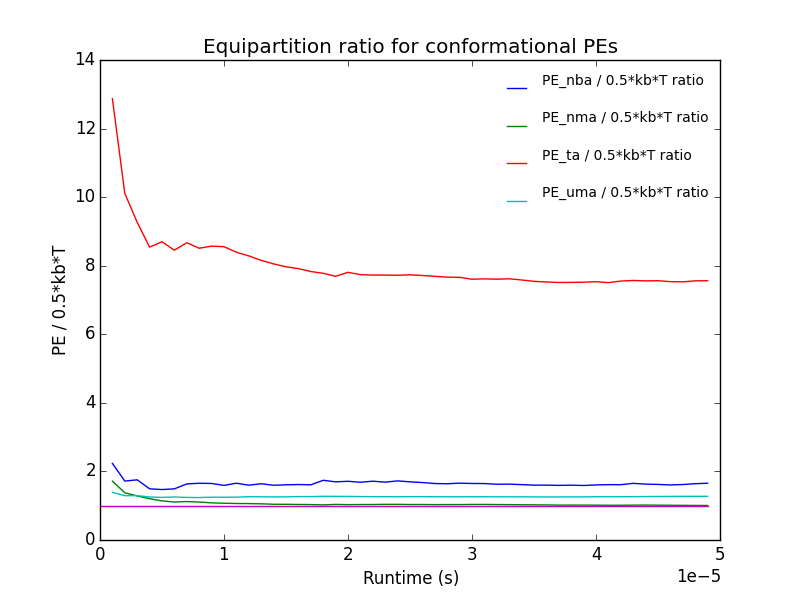
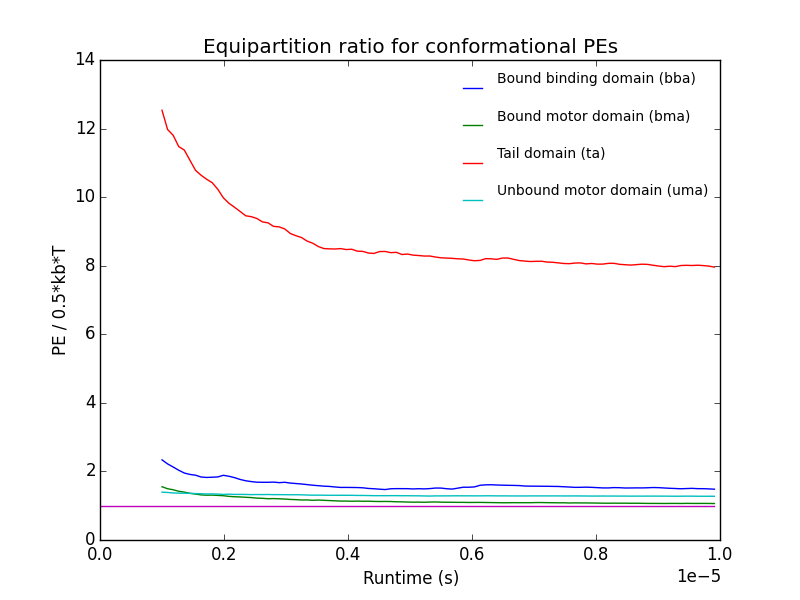
Fix several bugs in correlation function plotting, the plot is looking decent now.

diff --git a/simulations/simulations.cpp b/simulations/simulations.cpp
@@ -10,32 +10,31 @@
 
 void store_onebound_PEs_callback(void* dyn, State s, void* job_msg, data_union *job_data, int iteration) {
   assert(s == NEARBOUND);
-  assert(iteration <= job_data->ob_data.len);
+  assert(iteration < job_data->ob_data.len);
+  int max_iteration = *((int*) job_msg);
   
   Dynein_onebound* dyn_ob = (Dynein_onebound*) dyn;
-
   job_data->ob_data.bb[iteration] = dyn_ob->PE_bba;
-  job_data->ob_data.bb[iteration] = dyn_ob->PE_bma;
-  job_data->ob_data.bb[iteration] = dyn_ob->PE_ta; 
-  job_data->ob_data.bb[iteration] = dyn_ob->PE_uma;
-
-  int max_iteration = *((int*) job_msg);
+  job_data->ob_data.bm[iteration] = dyn_ob->PE_bma;
+  job_data->ob_data.t[iteration] = dyn_ob->PE_ta;
+  job_data->ob_data.um[iteration] = dyn_ob->PE_uma;
 
   if (iteration % 100000 == 0) {
     printf("PE calculation progress: %d / %d, %g%%                \r", iteration, max_iteration, ((double) iteration) / max_iteration * 100);
     fflush(NULL);
   }
-  if (iteration == max_iteration) printf("\n");
+  if (iteration == job_data->ob_data.len - 1) printf("Finished generating PE data for seed %f                \n", RAND_INIT_SEED);
 }
 
 void print_data_to_file(double* data1, double* data2, int iterations, const char* legend, const char* fname) {
   char* buf = (char*)
-    malloc((iterations * (12+5+12+1) + 1 + 1) * sizeof(char) + strlen(legend)); // 5 spaced, each double 12 chars, newline
+    malloc((iterations * (12+5+12+1) + 1 + 1) * sizeof(char) + strlen(legend)); // 5 spaced, each double 12 chars, newline, legend
   int buf_offset = 0;
   sprintf(buf, "%s\n", legend);
   buf_offset += strlen(legend) + 1;
 
   for (int i = 0; i < iterations; i++) {
+    assert(data2[i] == data2[i]);
     sprintf(&buf[buf_offset], "%+.5e     %+.5e\n", data1[i], data2[i]);
     buf_offset += 30;
   }
@@ -45,61 +44,63 @@ void print_data_to_file(double* data1, double* data2, int iterations, const char
   fclose(data_file);
 }
 
-void get_onebound_PE_correlation_function(generic_data* tau_data, onebound_data* corr_data, int num_corr_datapoints, int min_tau_iter, int max_tau_iter) {
+void get_onebound_PE_correlation_function(generic_data* tau_data, onebound_data* corr_data, int num_corr_datapoints, int iterations, int max_tau_iter) {
   MICROTUBULE_BINDING_DISTANCE = -std::numeric_limits<double>::infinity();
 
   onebound_equilibrium_angles eq = onebound_post_powerstroke_internal_angles;
   double test_position[] = {eq.bba, eq.bma, eq.ta, eq.uma, 0, 0};
 
   onebound_data data;
-  data.bb = (double*) malloc(num_corr_datapoints * sizeof(double));
-  data.bm = (double*) malloc(num_corr_datapoints * sizeof(double));
-  data.t  = (double*) malloc(num_corr_datapoints * sizeof(double));
-  data.um = (double*) malloc(num_corr_datapoints * sizeof(double));
-  data.len = max_tau_iter;
+  data.bb = (double*) malloc(iterations * sizeof(double));
+  data.bm = (double*) malloc(iterations * sizeof(double));
+  data.t  = (double*) malloc(iterations * sizeof(double));
+  data.um = (double*) malloc(iterations * sizeof(double));
+  data.len = iterations;
 
   data_union data_holder;
   data_holder.ob_data = data;
 
-  simulate(max_tau_iter*dt, RAND_INIT_SEED, NEARBOUND, test_position, store_onebound_PEs_callback, (void*) (void*) &max_tau_iter, &data_holder);
+  simulate(iterations*dt, RAND_INIT_SEED, NEARBOUND, test_position, store_onebound_PEs_callback, (void*) &iterations, &data_holder);
 
   double* PE_bbas = data.bb;
   double* PE_bmas = data.bm;
   double* PE_tas =  data.t;
   double* PE_umas = data.um;
 
-  double PE_bba_ave = get_average(PE_bbas, num_corr_datapoints);
-  double PE_bba_var = get_variance(PE_bbas, num_corr_datapoints);
-  double PE_bma_ave = get_average(PE_bmas, num_corr_datapoints);
-  double PE_bma_var = get_variance(PE_bmas, num_corr_datapoints);
-  double PE_ta_ave = get_average(PE_tas, num_corr_datapoints);
-  double PE_ta_var = get_variance(PE_tas, num_corr_datapoints);
-  double PE_uma_ave = get_average(PE_umas, num_corr_datapoints);
-  double PE_uma_var = get_variance(PE_umas, num_corr_datapoints);
+  double PE_bba_ave = get_average(PE_bbas, iterations);
+  double PE_bba_var = get_variance(PE_bbas, iterations);
+  double PE_bma_ave = get_average(PE_bmas, iterations);
+  double PE_bma_var = get_variance(PE_bmas, iterations);
+  double PE_ta_ave = get_average(PE_tas, iterations);
+  double PE_ta_var = get_variance(PE_tas, iterations);
+  double PE_uma_ave = get_average(PE_umas, iterations);
+  double PE_uma_var = get_variance(PE_umas, iterations);
 
-  double d_tau_iter = (max_tau_iter - min_tau_iter) / num_corr_datapoints;
+  int d_tau_iter = max_tau_iter / num_corr_datapoints;
+  assert(d_tau_iter > 0);
 
-  for (int tau_iter = min_tau_iter; tau_iter < max_tau_iter; tau_iter += d_tau_iter) {
+  for (int tau_iter = 0; tau_iter < max_tau_iter; tau_iter += d_tau_iter) {
     double bba_correlation_sum = 0;
     double bma_correlation_sum = 0;
     double ta_correlation_sum = 0;
     double uma_correlation_sum = 0;
     
-    for (int i = 0; i < max_tau_iter - tau_iter; i++) {
+    for (int i = 0; i < iterations - tau_iter; i++) {
       bba_correlation_sum += (PE_bbas[i] - PE_bba_ave) * (PE_bbas[i+tau_iter] - PE_bba_ave);
       bma_correlation_sum += (PE_bmas[i] - PE_bma_ave) * (PE_bmas[i+tau_iter] - PE_bma_ave);
       ta_correlation_sum += (PE_tas[i] - PE_ta_ave) * (PE_tas[i+tau_iter] - PE_ta_ave);
       uma_correlation_sum += (PE_umas[i] - PE_uma_ave) * (PE_umas[i+tau_iter] - PE_uma_ave);
     }
 
-    double bba_correlation = bba_correlation_sum / PE_bba_var / num_corr_datapoints;
-    double bma_correlation = bma_correlation_sum / PE_bma_var / num_corr_datapoints;
-    double ta_correlation  = ta_correlation_sum / PE_ta_var / num_corr_datapoints;
-    double uma_correlation = uma_correlation_sum / PE_uma_var / num_corr_datapoints;
+    int num_iters = iterations - tau_iter;
 
-    int iteration = (tau_iter - min_tau_iter) / d_tau_iter;
+    double bba_correlation = bba_correlation_sum / PE_bba_var / num_iters;
+    double bma_correlation = bma_correlation_sum / PE_bma_var / num_iters;
+    double ta_correlation  = ta_correlation_sum / PE_ta_var / num_iters;
+    double uma_correlation = uma_correlation_sum / PE_uma_var / num_iters;
 
-    assert(iteration <= corr_data->len);
+    int iteration = tau_iter / d_tau_iter;
+    assert(iteration < corr_data->len);
 
     tau_data->data[iteration] = tau_iter*dt;
     corr_data->bb[iteration] = bba_correlation;
@@ -111,6 +112,7 @@ void get_onebound_PE_correlation_function(generic_data* tau_data, onebound_data*
       printf("correlation function progress: %g%%                \r", ((double) iteration)  / num_corr_datapoints * 100);
       fflush(NULL);
     }
+    if (iteration == corr_data->len - 1) printf("Finished correlation calculations for seed %f               \n", RAND_INIT_SEED);
   }
 }
 
@@ -121,11 +123,11 @@ void get_onebound_equipartition_ratio_per_runtime(generic_data* runtime_data, on
   double init_position[] = {eq.bba, eq.bma, eq.ta, eq.uma, 0, 0};
 
   onebound_data data;
-  data.bb = (double*) malloc(num_eq_datapoints * sizeof(double));
-  data.bm = (double*) malloc(num_eq_datapoints * sizeof(double));
-  data.t  = (double*) malloc(num_eq_datapoints * sizeof(double));
-  data.um = (double*) malloc(num_eq_datapoints * sizeof(double));
-  data.len = num_eq_datapoints;
+  data.bb = (double*) malloc(max_runtime_iter * sizeof(double));
+  data.bm = (double*) malloc(max_runtime_iter * sizeof(double));
+  data.t  = (double*) malloc(max_runtime_iter * sizeof(double));
+  data.um = (double*) malloc(max_runtime_iter * sizeof(double));
+  data.len = max_runtime_iter;
 
   data_union data_holder;
   data_holder.ob_data = data;
@@ -146,7 +148,7 @@ void get_onebound_equipartition_ratio_per_runtime(generic_data* runtime_data, on
     double uma_eq_ratio = get_average(uma_PE_data, runtime_iter) / (0.5*kb*T);
 
     int iteration = (runtime_iter - min_runtime_iter) / d_runtime_iter;
-    assert(iteration <= eq_data->len);
+    assert(iteration < eq_data->len);
 
     eq_data->bb[iteration] = bba_eq_ratio;
     eq_data->bm[iteration] = bma_eq_ratio;
@@ -158,5 +160,6 @@ void get_onebound_equipartition_ratio_per_runtime(generic_data* runtime_data, on
       printf("equipartition ratio progress: %g%%                \r", ((double) iteration) / num_eq_datapoints * 100);
       fflush(NULL);
     }
+    if (iteration == eq_data->len - 1) printf("Finished equipartition average calculations for seed %f             \n", RAND_INIT_SEED);
   }
 }

diff --git a/simulations/onebound_PE_equipartition_correlation.cpp b/simulations/onebound_PE_equipartition_correlation.cpp
@@ -10,14 +10,13 @@ int main() {
   }
 
   T = 100;
-  int iterations = 1e6;
+  int iterations = 1e8;
 
-  int min_tau_iter = iterations * 0.1;
-  int max_tau_iter = iterations * 0.5;
+  int max_tau_iter = iterations * 0.4;
   int num_corr_datapoints = 50;
 
-  int min_runtime_iter = 10*min_tau_iter;
-  int max_runtime_iter = 10*max_tau_iter;
+  int min_eq_iter = iterations;
+  int max_eq_iter = 10*iterations;
   int num_eq_datapoints = 100;
 
   const char* bba_corr_title = "Bound binding domain (bba)";
@@ -40,31 +39,37 @@ int main() {
   const char* ta_eq_fname =  "ta_pe_equipartition_ratio.txt";
   const char* uma_eq_fname = "uma_pe_equipartition_ratio.txt";
 
-  generic_data tau_data, runtime_data;
+  generic_data corr_time_data, eq_time_data;
   onebound_data corr_data, eq_data, eq_ratio_ave, corr_ave;
 
-  tau_data.data = (double*) malloc(num_corr_datapoints * sizeof(double));
-  runtime_data.data = (double*) malloc(num_eq_datapoints * sizeof(double));
+  corr_time_data.data = (double*) malloc(num_corr_datapoints * sizeof(double));
+  eq_time_data.data = (double*) malloc(num_eq_datapoints * sizeof(double));
+  corr_time_data.len = num_corr_datapoints;
+  eq_time_data.len = num_eq_datapoints;
   
   corr_data.bb = (double*) malloc(num_corr_datapoints * sizeof(double));
   corr_data.bm = (double*) malloc(num_corr_datapoints * sizeof(double));
   corr_data.t  = (double*) malloc(num_corr_datapoints * sizeof(double));
   corr_data.um = (double*) malloc(num_corr_datapoints * sizeof(double));
+  corr_data.len = num_corr_datapoints;
   
   eq_data.bb = (double*) malloc(num_eq_datapoints * sizeof(double));
   eq_data.bm = (double*) malloc(num_eq_datapoints * sizeof(double));
   eq_data.t  = (double*) malloc(num_eq_datapoints * sizeof(double));
   eq_data.um = (double*) malloc(num_eq_datapoints * sizeof(double));
-
-  eq_ratio_ave.bb = (double*) malloc(num_eq_datapoints * sizeof(double));
-  eq_ratio_ave.bm = (double*) malloc(num_eq_datapoints * sizeof(double));
-  eq_ratio_ave.t  = (double*) malloc(num_eq_datapoints * sizeof(double));
-  eq_ratio_ave.um = (double*) malloc(num_eq_datapoints * sizeof(double));
+  eq_data.len = num_eq_datapoints;
 
   corr_ave.bb = (double*) malloc(num_corr_datapoints * sizeof(double));
   corr_ave.bm = (double*) malloc(num_corr_datapoints * sizeof(double));
   corr_ave.t  = (double*) malloc(num_corr_datapoints * sizeof(double));
   corr_ave.um = (double*) malloc(num_corr_datapoints * sizeof(double));
+  corr_ave.len = num_corr_datapoints;
+
+  eq_ratio_ave.bb = (double*) malloc(num_eq_datapoints * sizeof(double));
+  eq_ratio_ave.bm = (double*) malloc(num_eq_datapoints * sizeof(double));
+  eq_ratio_ave.t  = (double*) malloc(num_eq_datapoints * sizeof(double));
+  eq_ratio_ave.um = (double*) malloc(num_eq_datapoints * sizeof(double));
+  eq_ratio_ave.len = num_eq_datapoints;
 
   for (int i = 0; i < num_eq_datapoints; i++) {
     eq_ratio_ave.bb[i] = 0;
@@ -86,8 +91,8 @@ int main() {
   for (int r = 0; r < seed_len; r++) {
     RAND_INIT_SEED = seeds[r];
 
-    get_onebound_PE_correlation_function(&tau_data, &corr_data, num_corr_datapoints, min_tau_iter, max_tau_iter);
-    get_onebound_equipartition_ratio_per_runtime(&runtime_data, &eq_data, num_eq_datapoints, min_runtime_iter, max_runtime_iter);
+    get_onebound_PE_correlation_function(&corr_time_data, &corr_data, num_corr_datapoints, iterations, max_tau_iter);
+    get_onebound_equipartition_ratio_per_runtime(&eq_time_data, &eq_data, num_eq_datapoints, min_eq_iter, max_eq_iter);
 
     for (int i = 0; i < num_corr_datapoints; i++) {          // unpack correlation data
       corr_ave.bb[i] += corr_data.bb[i];
@@ -118,14 +123,14 @@ int main() {
     corr_ave.um[i] /= seed_len;
   }
 
-  print_data_to_file(tau_data.data, corr_ave.bb, num_corr_datapoints, bba_corr_title, bba_corr_fname);
-  print_data_to_file(tau_data.data, corr_ave.bm, num_corr_datapoints, bma_corr_title, bma_corr_fname);
-  print_data_to_file(tau_data.data, corr_ave.t,  num_corr_datapoints, ta_corr_title, ta_corr_fname);
-  print_data_to_file(tau_data.data, corr_ave.um, num_corr_datapoints, uma_corr_title, uma_corr_fname);
+  print_data_to_file(corr_time_data.data, corr_ave.bb, num_corr_datapoints, bba_corr_title, bba_corr_fname);
+  print_data_to_file(corr_time_data.data, corr_ave.bm, num_corr_datapoints, bma_corr_title, bma_corr_fname);
+  print_data_to_file(corr_time_data.data, corr_ave.t,  num_corr_datapoints, ta_corr_title, ta_corr_fname);
+  print_data_to_file(corr_time_data.data, corr_ave.um, num_corr_datapoints, uma_corr_title, uma_corr_fname);
 
-  print_data_to_file(runtime_data.data, eq_ratio_ave.bb, num_eq_datapoints, bba_eq_title, bba_eq_fname);
-  print_data_to_file(runtime_data.data, eq_ratio_ave.bm, num_eq_datapoints, bma_eq_title, bma_eq_fname);
-  print_data_to_file(runtime_data.data, eq_ratio_ave.t, num_eq_datapoints, ta_eq_title, ta_eq_fname);
-  print_data_to_file(runtime_data.data, eq_ratio_ave.um, num_eq_datapoints, uma_eq_title, uma_eq_fname);
+  print_data_to_file(eq_time_data.data, eq_ratio_ave.bb, num_eq_datapoints, bba_eq_title, bba_eq_fname);
+  print_data_to_file(eq_time_data.data, eq_ratio_ave.bm, num_eq_datapoints, bma_eq_title, bma_eq_fname);
+  print_data_to_file(eq_time_data.data, eq_ratio_ave.t, num_eq_datapoints, ta_eq_title, ta_eq_fname);
+  print_data_to_file(eq_time_data.data, eq_ratio_ave.um, num_eq_datapoints, uma_eq_title, uma_eq_fname);
   return 0;
 }

diff --git a/dynein_struct.h b/dynein_struct.h
@@ -324,7 +324,7 @@ typedef union {
 
 void store_onebound_PEs_callback(void* dyn, State s, void* job_msg, data_union* job_data, int iteration);
 
-void get_onebound_PE_correlation_function(generic_data* tau_data, onebound_data* corr_data, int num_corr_datapoints, int min_tau_iter, int max_tau_iter);
+void get_onebound_PE_correlation_function(generic_data* tau_data, onebound_data* corr_data, int num_corr_datapoints, int iterations, int max_tau_iter);
 
 void get_onebound_equipartition_ratio_per_runtime(generic_data* runtime_data, onebound_data* eq_data, int num_eq_datapoints, int min_runtime_iter, int max_runtime_iter);
 
